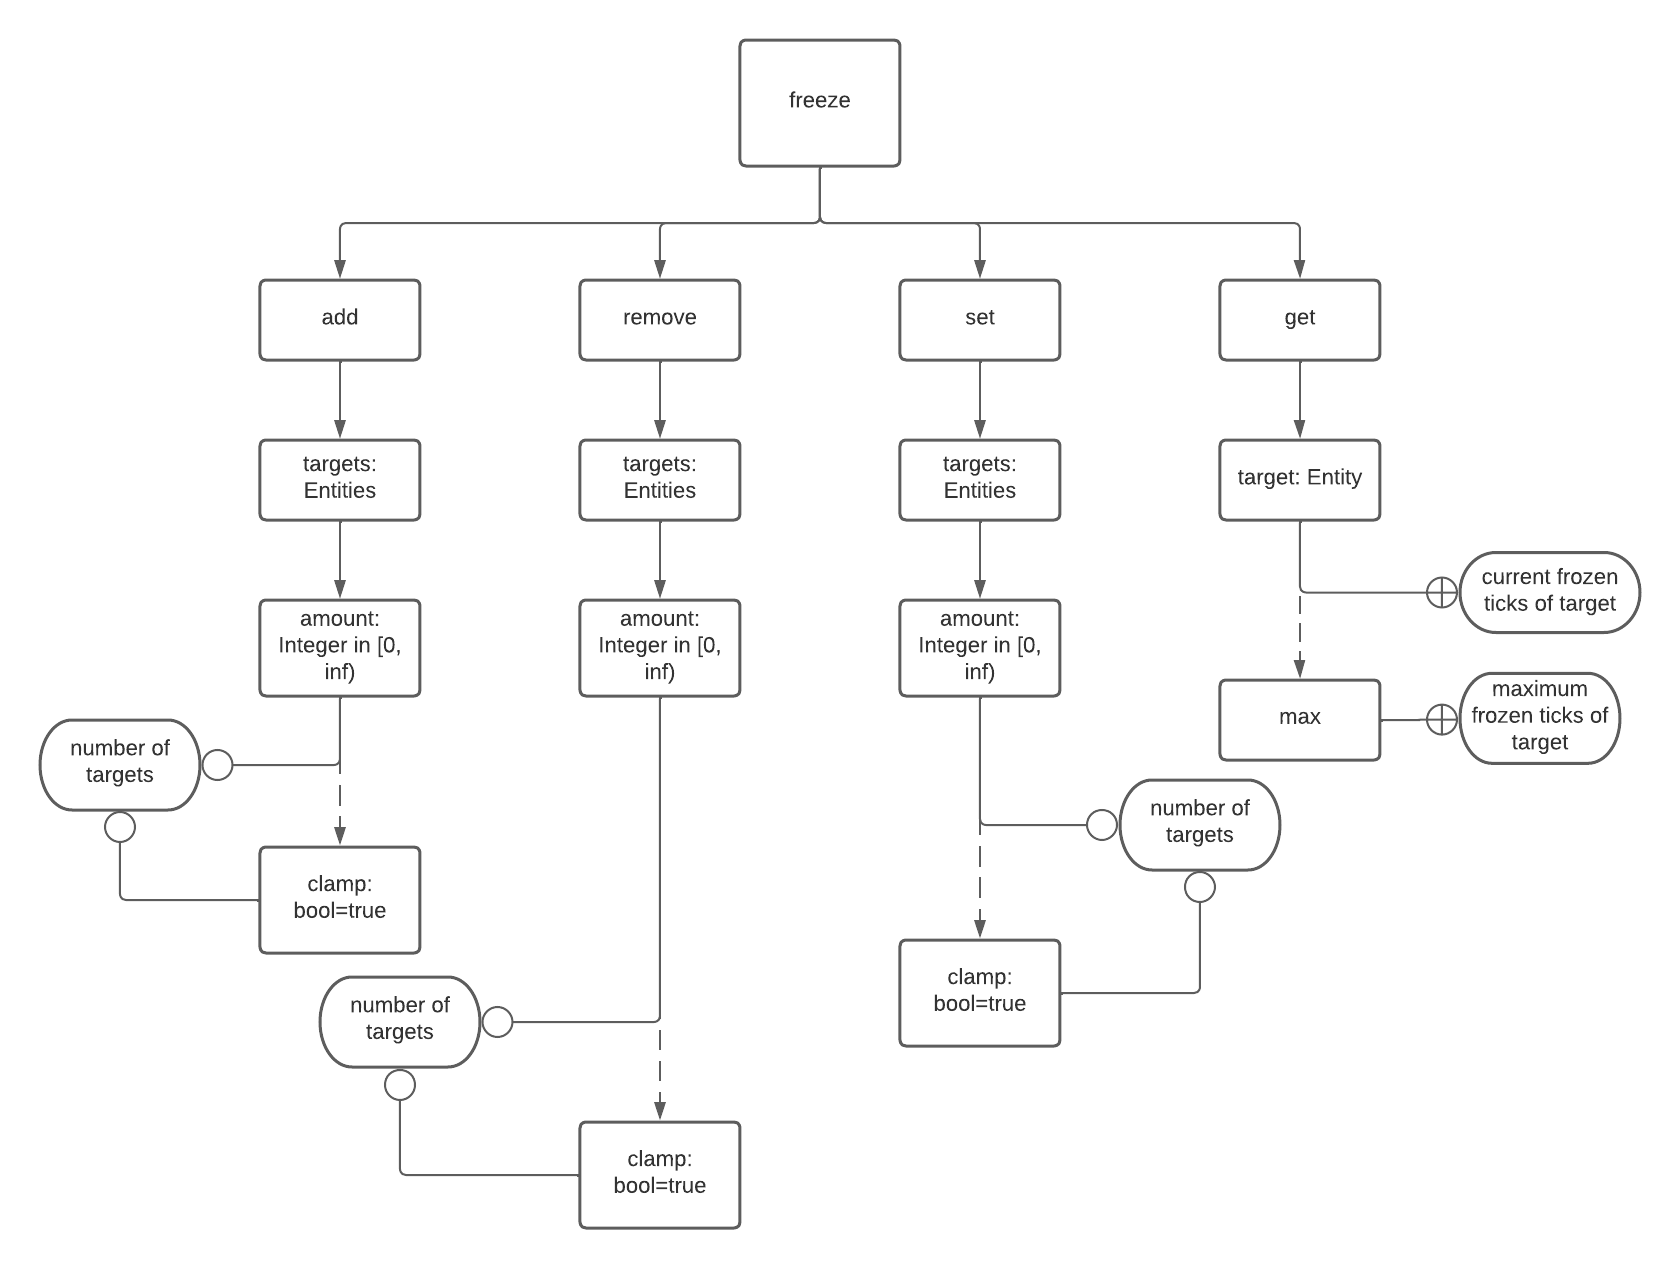
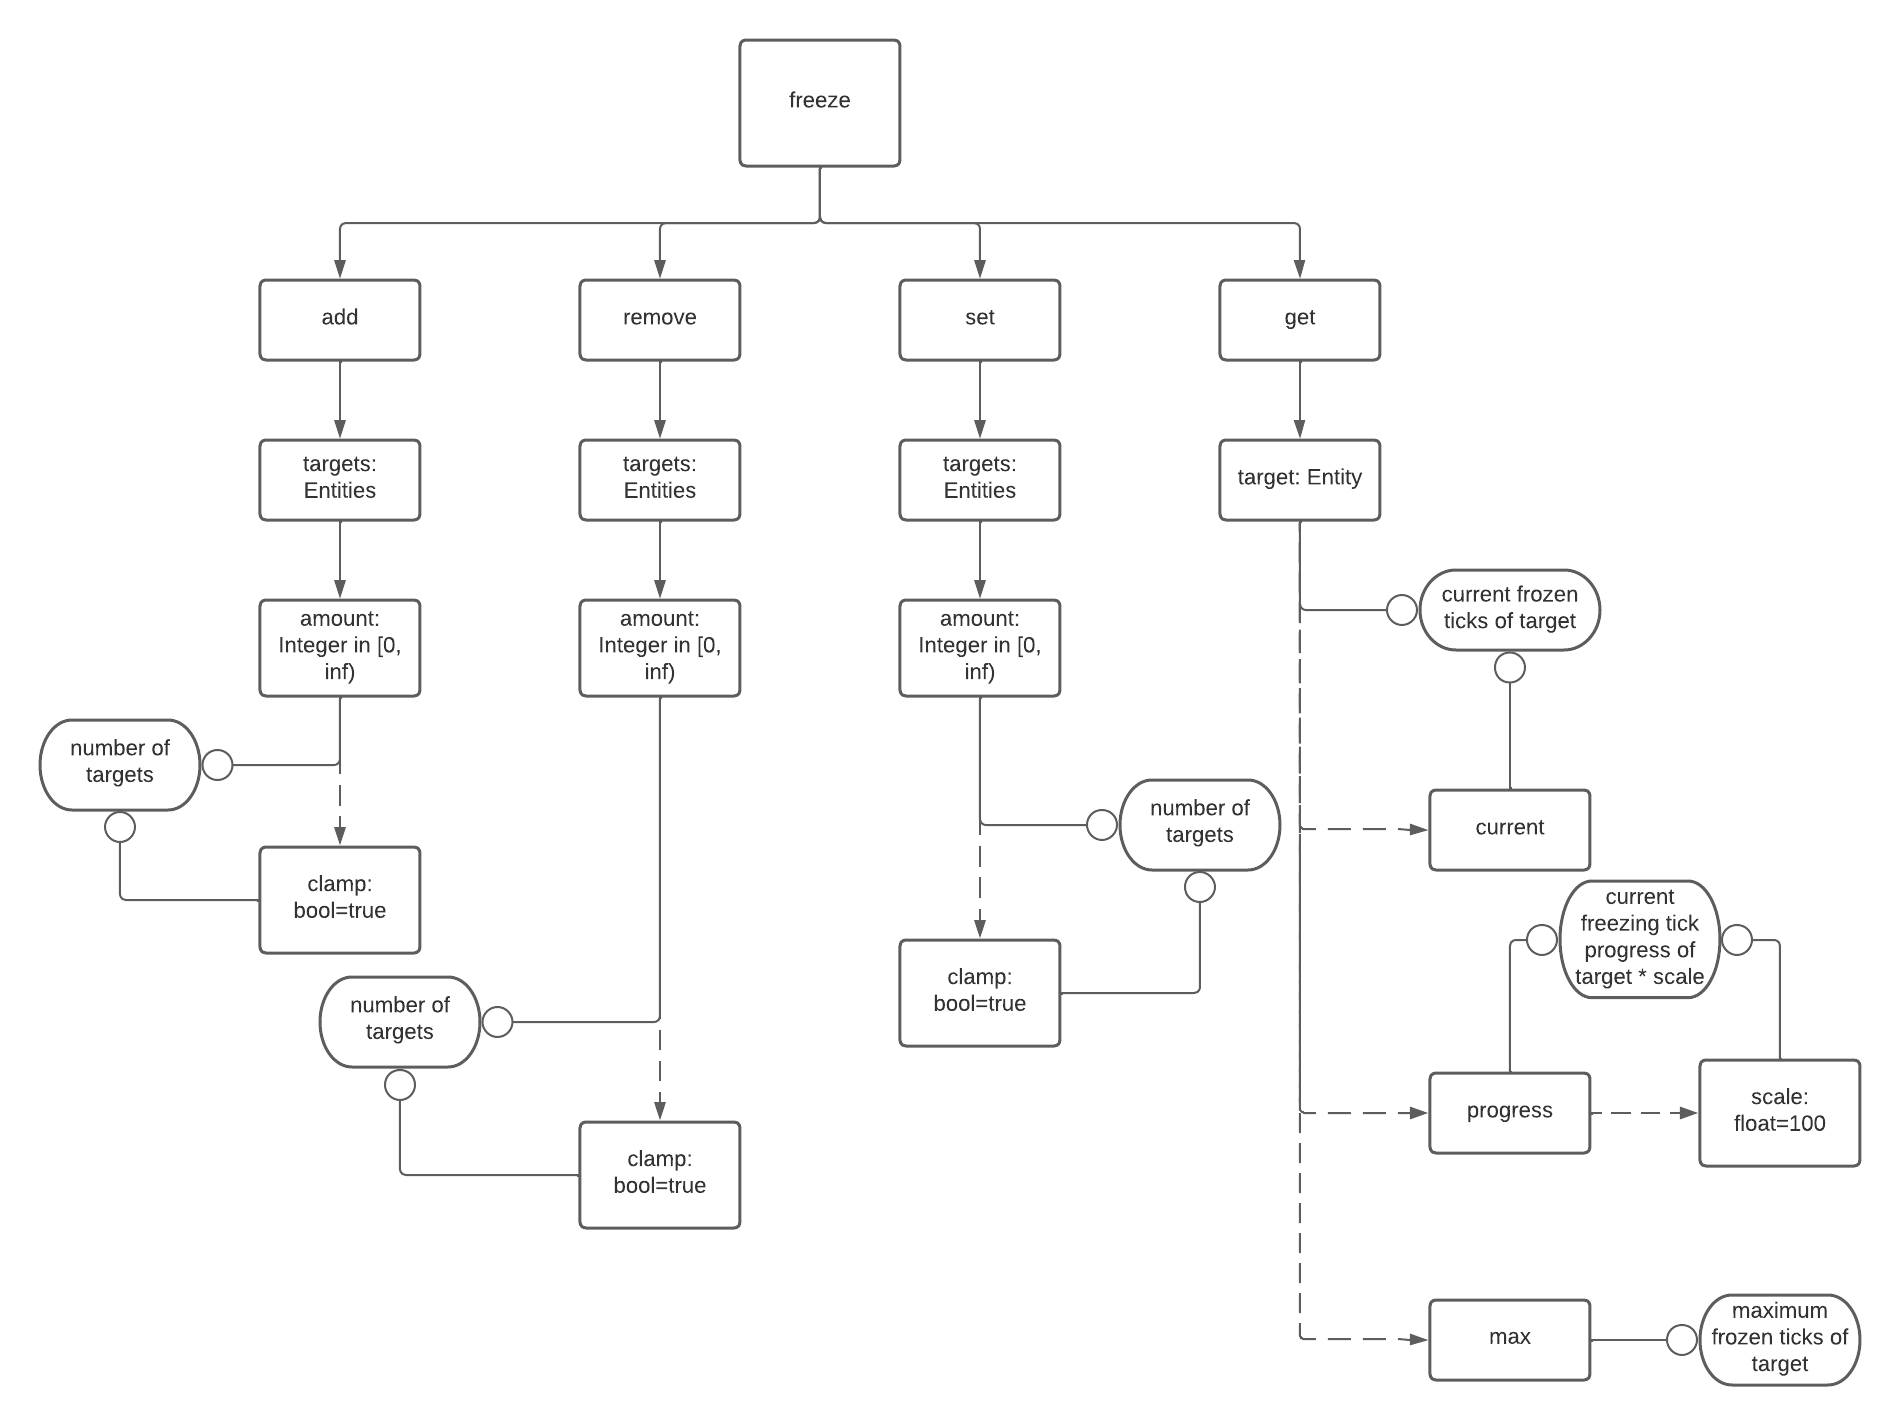
get command additions

diff --git a/src/main/java/com/github/thedeathlycow/tdcdata/server/command/FreezeCommand.java b/src/main/java/com/github/thedeathlycow/tdcdata/server/command/FreezeCommand.java
@@ -1,7 +1,9 @@
 package com.github.thedeathlycow.tdcdata.server.command;
 
+import com.mojang.brigadier.Command;
 import com.mojang.brigadier.CommandDispatcher;
 import com.mojang.brigadier.arguments.BoolArgumentType;
+import com.mojang.brigadier.arguments.FloatArgumentType;
 import com.mojang.brigadier.arguments.IntegerArgumentType;
 import net.minecraft.command.argument.EntityArgumentType;
 import net.minecraft.entity.Entity;
@@ -26,21 +28,46 @@ public class FreezeCommand {
     private static final String SET_SUCCESS_MULTIPLE = "Set the frozen ticks of %d targets to %d";
     private static final String GET_CURRENT_SUCCESS = "%s has %d frozen ticks";
     private static final String GET_MAX_SUCCESS = "%s can have a maximum of %d frozen ticks";
+    private static final String GET_PROGRESS_SUCCESS = "%s is %d%% frozen";
 
     public static void register(CommandDispatcher<ServerCommandSource> dispatcher) {
+
+        Command<ServerCommandSource> getCurrentLeaf = context -> {
+            return get(context.getSource(), EntityArgumentType.getEntity(context, "target"));
+        };
+
+        var getCurrent = literal("current").executes(getCurrentLeaf);
+
+        var getMax = literal("max")
+                .executes(context -> {
+                    return getMax(context.getSource(), EntityArgumentType.getEntity(context, "target"));
+                });
+
+        var getProgress = literal("progress")
+                .then(
+                        argument("scale", FloatArgumentType.floatArg()).executes(context -> {
+                                    return getProgress(
+                                            context.getSource(),
+                                            EntityArgumentType.getEntity(context, "target"),
+                                            FloatArgumentType.getFloat(context, "scale")
+                                    );
+                                }
+                        )
+                ).executes(context -> {
+                    return getProgress(
+                            context.getSource(),
+                            EntityArgumentType.getEntity(context, "target"),
+                            100
+                    );
+                });
 
         var getSubCommand = literal("get")
                 .then(
                         argument("target", EntityArgumentType.entity())
-                                .executes(context -> {
-                                    return get(context.getSource(), EntityArgumentType.getEntity(context, "target"));
-                                })
-                                .then(
-                                        literal("max")
-                                                .executes(context -> {
-                                                    return getMax(context.getSource(), EntityArgumentType.getEntity(context, "target"));
-                                                })
-                                )
+                                .executes(getCurrentLeaf)
+                                .then(getCurrent)
+                                .then(getMax)
+                                .then(getProgress)
                 );
 
         var removeSubCommand = literal("remove")
@@ -211,12 +238,12 @@ public class FreezeCommand {
      * of the targeted {@link Entity}, and displays that amount in chat to the command source.
      *
      * @param source The source of the command
-     * @param target The target {@link Entity} of the command
+     * @param target The targeted {@link Entity} of the command
      * @return Returns the amount of frozen ticks the target has.
      */
     private static int get(final ServerCommandSource source, final Entity target) {
         int amount = target.getFrozenTicks();
-        Text msg = new LiteralText(String.format(GET_CURRENT_SUCCESS, target.getDisplayName(), amount));
+        Text msg = new LiteralText(String.format(GET_CURRENT_SUCCESS, target.getDisplayName().asString(), amount));
         source.sendFeedback(msg, true);
         return amount;
     }
@@ -227,12 +254,33 @@ public class FreezeCommand {
      * command source. Usually this is 140, but mods may be able to adjust this number.
      *
      * @param source The source of the command
-     * @param target The target {@link Entity} of the command
+     * @param target The targeted {@link Entity} of the command
      * @return Returns the amount of maximum number of frozen ticks the target can have.
      */
     private static int getMax(final ServerCommandSource source, final Entity target) {
         int amount = target.getMinFreezeDamageTicks();
         Text msg = new LiteralText(String.format(GET_MAX_SUCCESS, target.getDisplayName(), amount));
+        source.sendFeedback(msg, true);
+        return amount;
+    }
+
+    /**
+     * Gets the freezing tick progress of the targeted {@link Entity}, scales it
+     * by the given scale, and displays this result in chat. Essentially a way
+     * to invoke {@link Entity#getFreezingScale()} in game.
+     * <p>
+     * The result can be formally expressed as <code>floor({@link Entity#getFreezingScale()} * scale)</code>
+     * </p>
+     *
+     * @param source The source of the command
+     * @param target The targeted {@link Entity} of the command
+     * @param scale  The scale by which to multiply the result of {@link Entity#getFreezingScale()} by.
+     * @return Returns the amount of maximum number of frozen ticks the target can have.
+     */
+    private static int getProgress(final ServerCommandSource source, final Entity target, final float scale) {
+        float progress = target.getFreezingScale();
+        int amount = MathHelper.floor(progress * scale);
+        Text msg = new LiteralText(String.format(GET_PROGRESS_SUCCESS, target.getDisplayName(), amount));
         source.sendFeedback(msg, true);
         return amount;
     }
